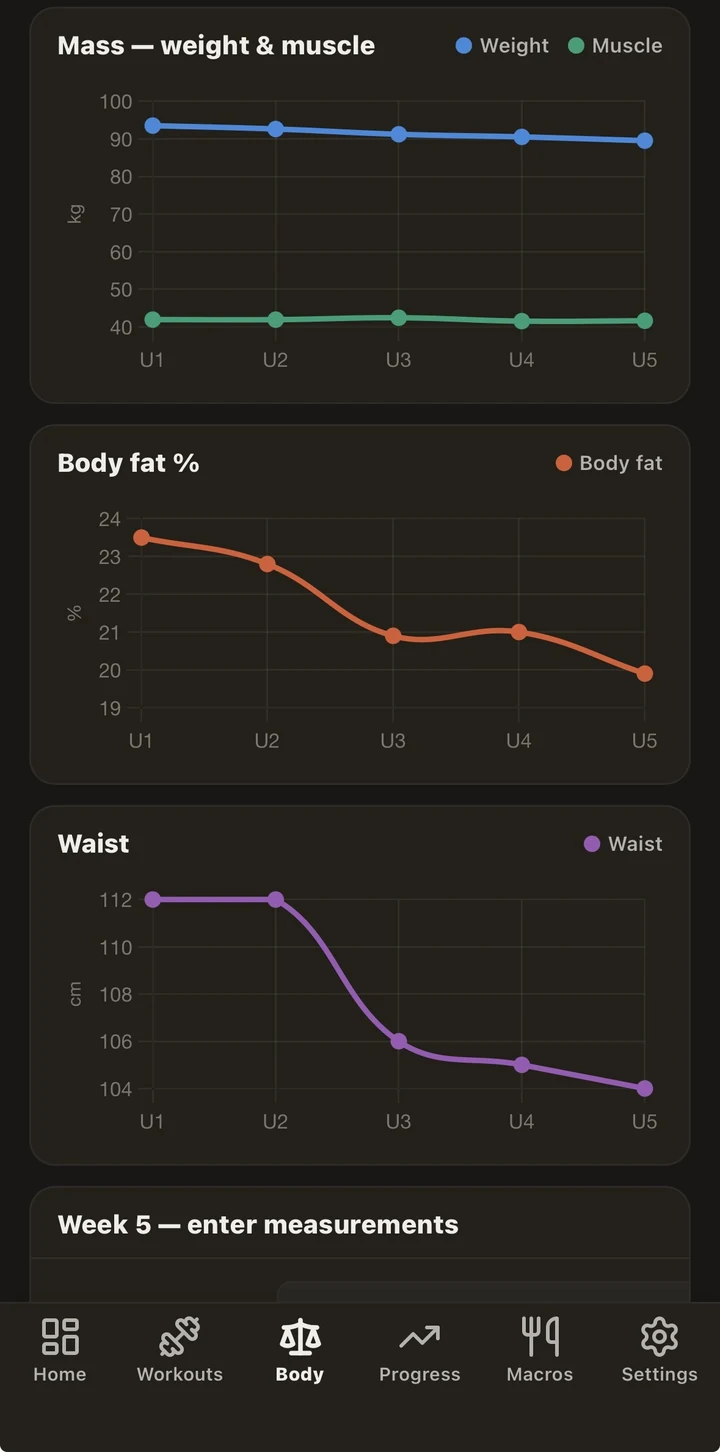
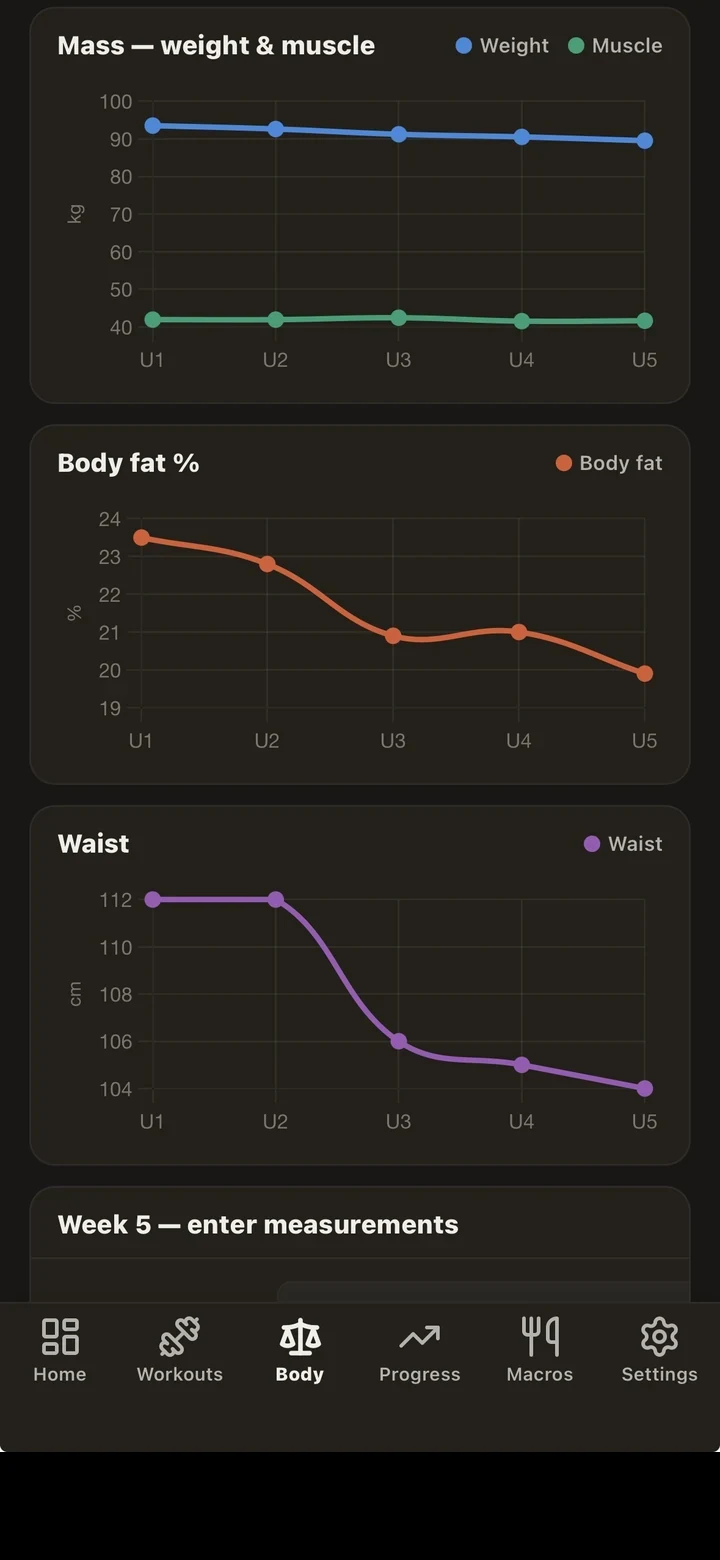
Add files via upload

diff --git a/index.html b/index.html
@@ -244,7 +244,7 @@ body{font-family:'Inter',-apple-system,'SF Pro Text','SF Pro Display',system-ui,
 
 /* Phone mockup (visual placeholder for app preview) */
 .phone-mock{background:#0c0c0e;border-radius:32px;padding:8px;aspect-ratio:9/19.5;width:100%;max-width:230px;margin:0 auto;box-shadow:0 24px 56px rgba(0,0,0,0.22),0 0 0 1px rgba(255,255,255,0.05) inset;position:relative;}
-.phone-mock img{display:block;width:100%;height:100%;object-fit:contain;object-position:top;border-radius:24px;}
+.phone-mock img{display:block;width:100%;height:100%;object-fit:cover;object-position:top;border-radius:24px;}
 @media(prefers-color-scheme:dark){.phone-mock{box-shadow:0 24px 56px rgba(0,0,0,0.5),0 0 0 1px rgba(255,255,255,0.08) inset;}}
 
 /* Screenshot showcase under product-card */
@@ -252,7 +252,7 @@ body{font-family:'Inter',-apple-system,'SF Pro Text','SF Pro Display',system-ui,
 @media(max-width:640px){.screenshot-showcase{grid-template-columns:repeat(3,1fr);gap:12px;}}
 .shot-card{display:flex;flex-direction:column;align-items:center;text-align:center;gap:12px;}
 .shot-frame{background:#0c0c0e;border-radius:24px;padding:6px;aspect-ratio:9/19.5;width:100%;max-width:180px;box-shadow:0 14px 32px rgba(0,0,0,0.18),0 0 0 1px rgba(255,255,255,0.05) inset;}
-.shot-frame img{display:block;width:100%;height:100%;object-fit:contain;object-position:top;border-radius:18px;}
+.shot-frame img{display:block;width:100%;height:100%;object-fit:cover;object-position:top;border-radius:18px;}
 .shot-caption{font-size:13px;color:var(--text);font-weight:600;letter-spacing:-0.01em;line-height:1.35;}
 .shot-sub{font-size:12px;color:var(--muted);line-height:1.45;margin-top:-6px;}
 @media(prefers-color-scheme:dark){.shot-frame{box-shadow:0 14px 32px rgba(0,0,0,0.45),0 0 0 1px rgba(255,255,255,0.08) inset;}}
@@ -777,7 +777,7 @@ body{font-family:'Inter',-apple-system,'SF Pro Text','SF Pro Display',system-ui,
         </div>
       </div>
       <div class="phone-mock">
-        <img src="/assets/screenshots/start.webp" data-src-da="/assets/screenshots/start.webp" data-src-en="/assets/screenshots/start-en.webp" width="720" height="1469" fetchpriority="high" decoding="async" alt="Training log dashboard — today's focus, this week's training, macros and sleep on one screen">
+        <img src="/assets/screenshots/start.webp" data-src-da="/assets/screenshots/start.webp" data-src-en="/assets/screenshots/start-en.webp" width="720" height="1560" fetchpriority="high" decoding="async" alt="Training log dashboard — today's focus, this week's training, macros and sleep on one screen">
       </div>
     </div>
 
@@ -785,7 +785,7 @@ body{font-family:'Inter',-apple-system,'SF Pro Text','SF Pro Display',system-ui,
     <div class="screenshot-showcase">
       <div class="shot-card">
         <div class="shot-frame">
-          <img src="/assets/screenshots/fremgang-pr.webp" data-src-da="/assets/screenshots/fremgang-pr.webp" data-src-en="/assets/screenshots/fremgang-pr-en.webp" width="720" height="1464" loading="lazy" decoding="async" alt="">
+          <img src="/assets/screenshots/fremgang-pr.webp" data-src-da="/assets/screenshots/fremgang-pr.webp" data-src-en="/assets/screenshots/fremgang-pr-en.webp" width="720" height="1560" loading="lazy" decoding="async" alt="">
         </div>
         <div class="shot-caption">
           <span data-lang class="on" data-lang-id="da">Styrke-fremgang</span>
@@ -798,7 +798,7 @@ body{font-family:'Inter',-apple-system,'SF Pro Text','SF Pro Display',system-ui,
       </div>
       <div class="shot-card">
         <div class="shot-frame">
-          <img src="/assets/screenshots/maalinger-fedt.webp" data-src-da="/assets/screenshots/maalinger-fedt.webp" data-src-en="/assets/screenshots/maalinger-fedt-en.webp" width="720" height="1485" loading="lazy" decoding="async" alt="">
+          <img src="/assets/screenshots/maalinger-fedt.webp" data-src-da="/assets/screenshots/maalinger-fedt.webp" data-src-en="/assets/screenshots/maalinger-fedt-en.webp" width="720" height="1560" loading="lazy" decoding="async" alt="">
         </div>
         <div class="shot-caption">
           <span data-lang class="on" data-lang-id="da">Krops-fremgang</span>
@@ -811,7 +811,7 @@ body{font-family:'Inter',-apple-system,'SF Pro Text','SF Pro Display',system-ui,
       </div>
       <div class="shot-card">
         <div class="shot-frame">
-          <img src="/assets/screenshots/makrolog-uge.webp" data-src-da="/assets/screenshots/makrolog-uge.webp" data-src-en="/assets/screenshots/makrolog-uge-en.webp" width="720" height="1336" loading="lazy" decoding="async" alt="">
+          <img src="/assets/screenshots/makrolog-uge.webp" data-src-da="/assets/screenshots/makrolog-uge.webp" data-src-en="/assets/screenshots/makrolog-uge-en.webp" width="720" height="1560" loading="lazy" decoding="async" alt="">
         </div>
         <div class="shot-caption">
           <span data-lang class="on" data-lang-id="da">Kost-konsistens</span>
